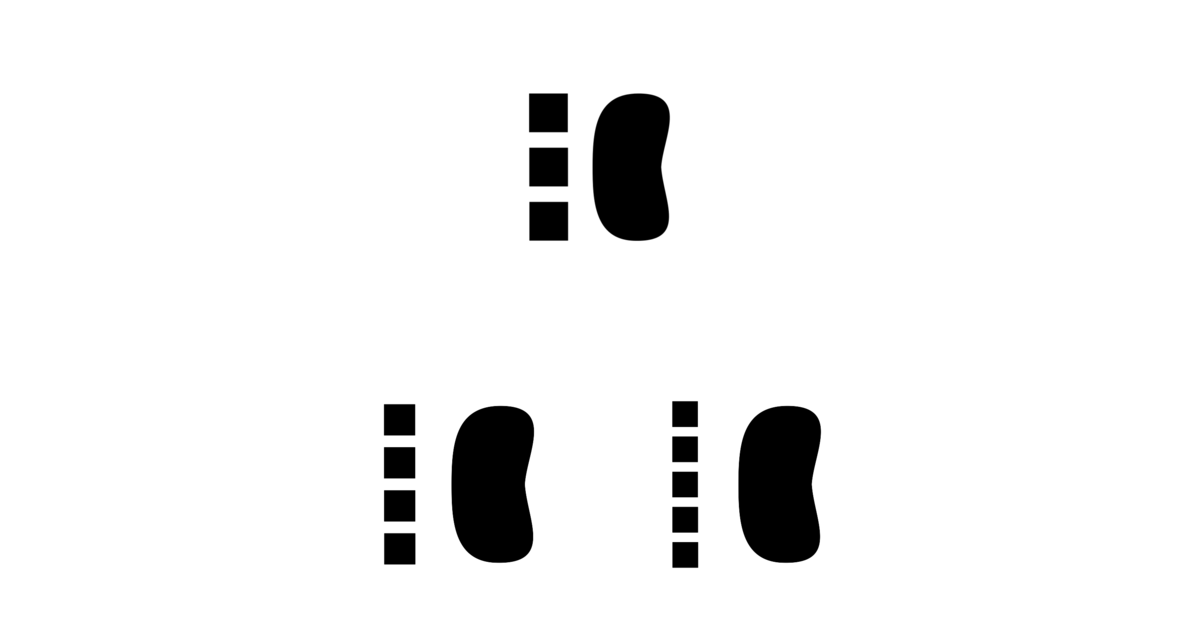
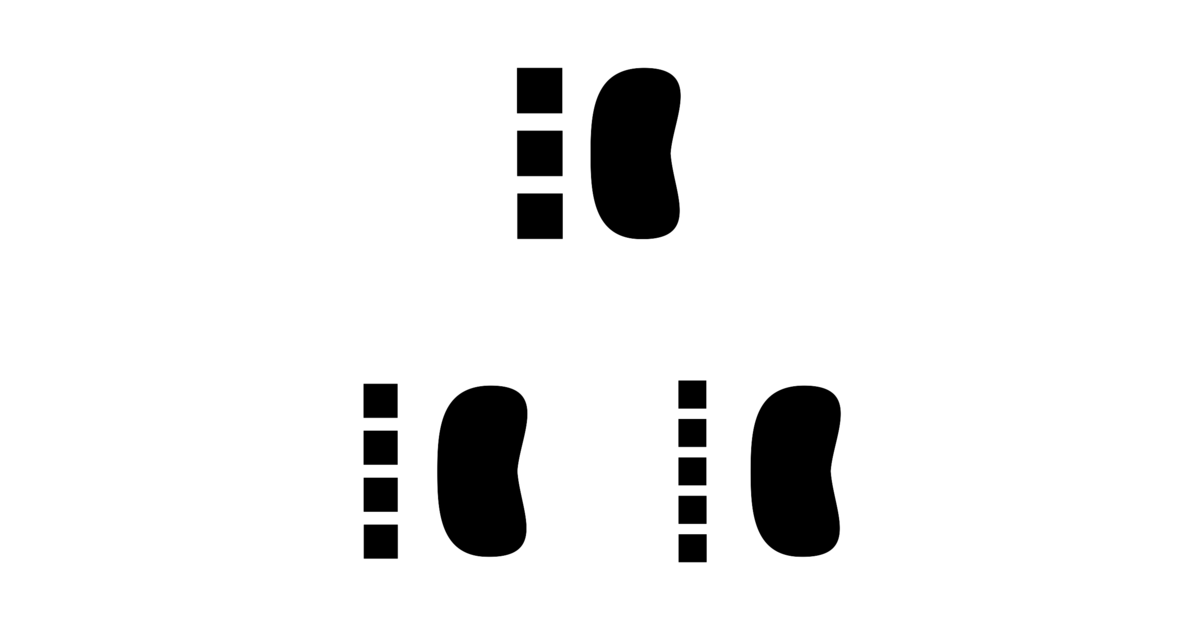
Fix border for 333bf+

Changed region(s): [[0.2775, 0.6051, 0.4625, 0.9076], [0.555, 0.6051, 0.7092, 0.9076], [0.4317, 0.0908, 0.5858, 0.3933]]

diff --git a/img/magick.md b/img/magick.md
@@ -62,8 +62,9 @@ convert svg/333bf.svg svg/444bf.svg svg/555bf.svg -splice 200x0+0+0 +append -cho
 ```
 
 ```
+convert svg/333bf.svg -resize 1200x500 -gravity center -extent 1200x500 png/333bf+1.png
 convert svg/444bf.svg svg/555bf.svg -splice 200x0+0+0 +append -chop 200x0+0+0 png/333bf+2.png
-convert png/333bf.png png/333bf+2.png -splice 0x200+0+0 -append -chop 0x200+0+0 -bordercolor white -border 100x100 -resize 1000x628 -gravity center -extent 1200x628 png/333bf+.png
+convert png/333bf+1.png png/333bf+2.png -splice 0x200+0+0 -append -chop 0x200+0+0 -bordercolor white -border 100x100 -resize 1000x628 -gravity center -extent 1200x628 png/333bf+.png
 ```
 
 
